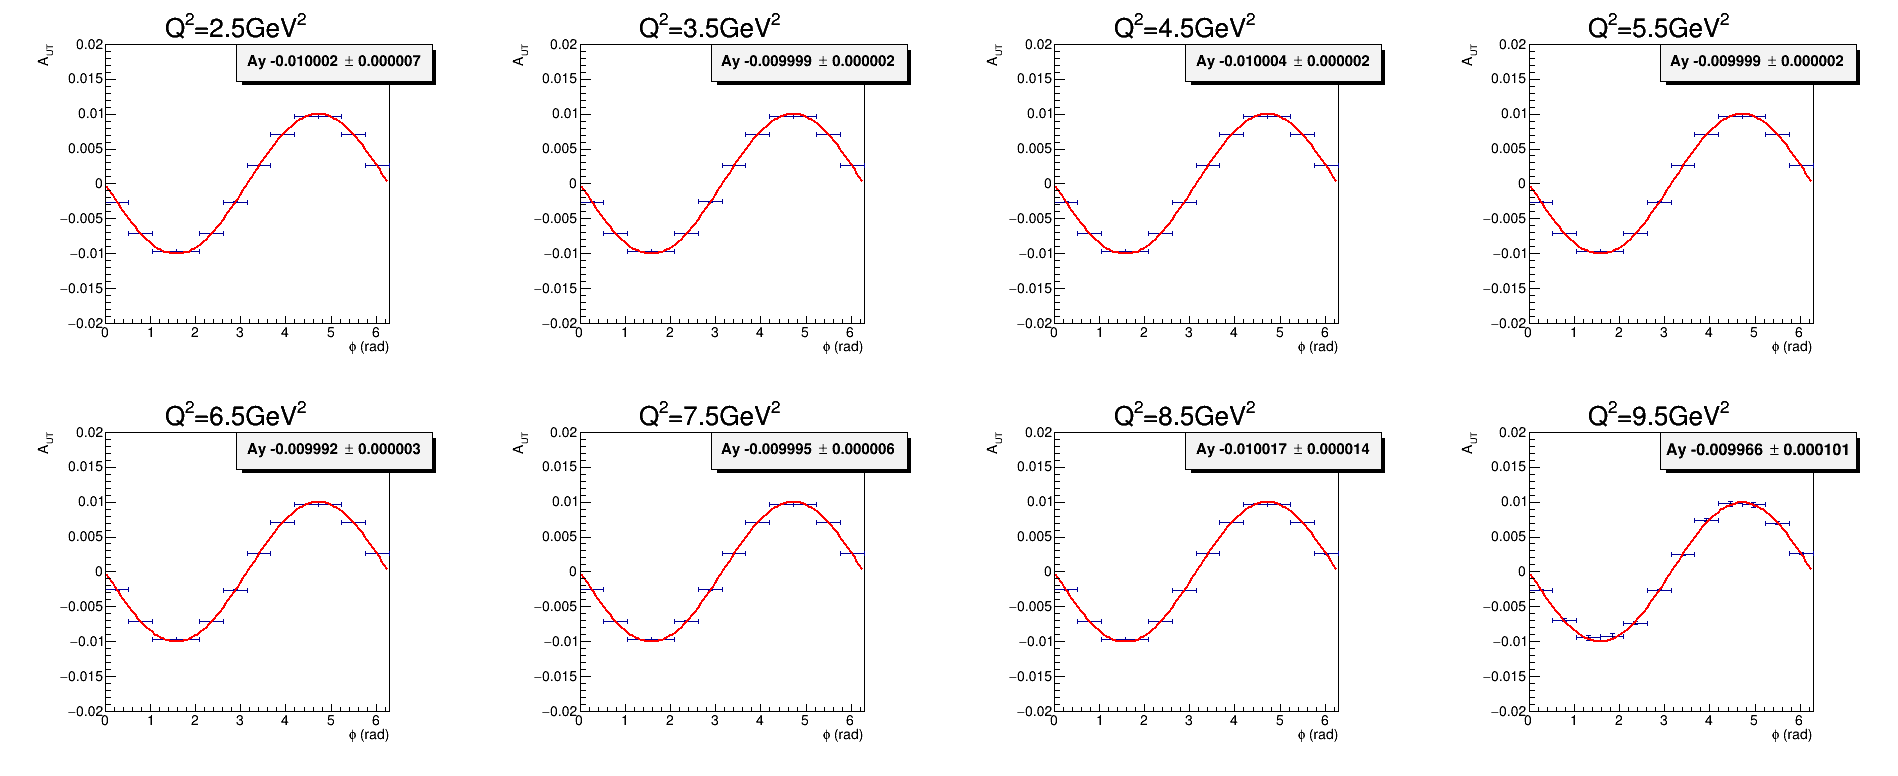
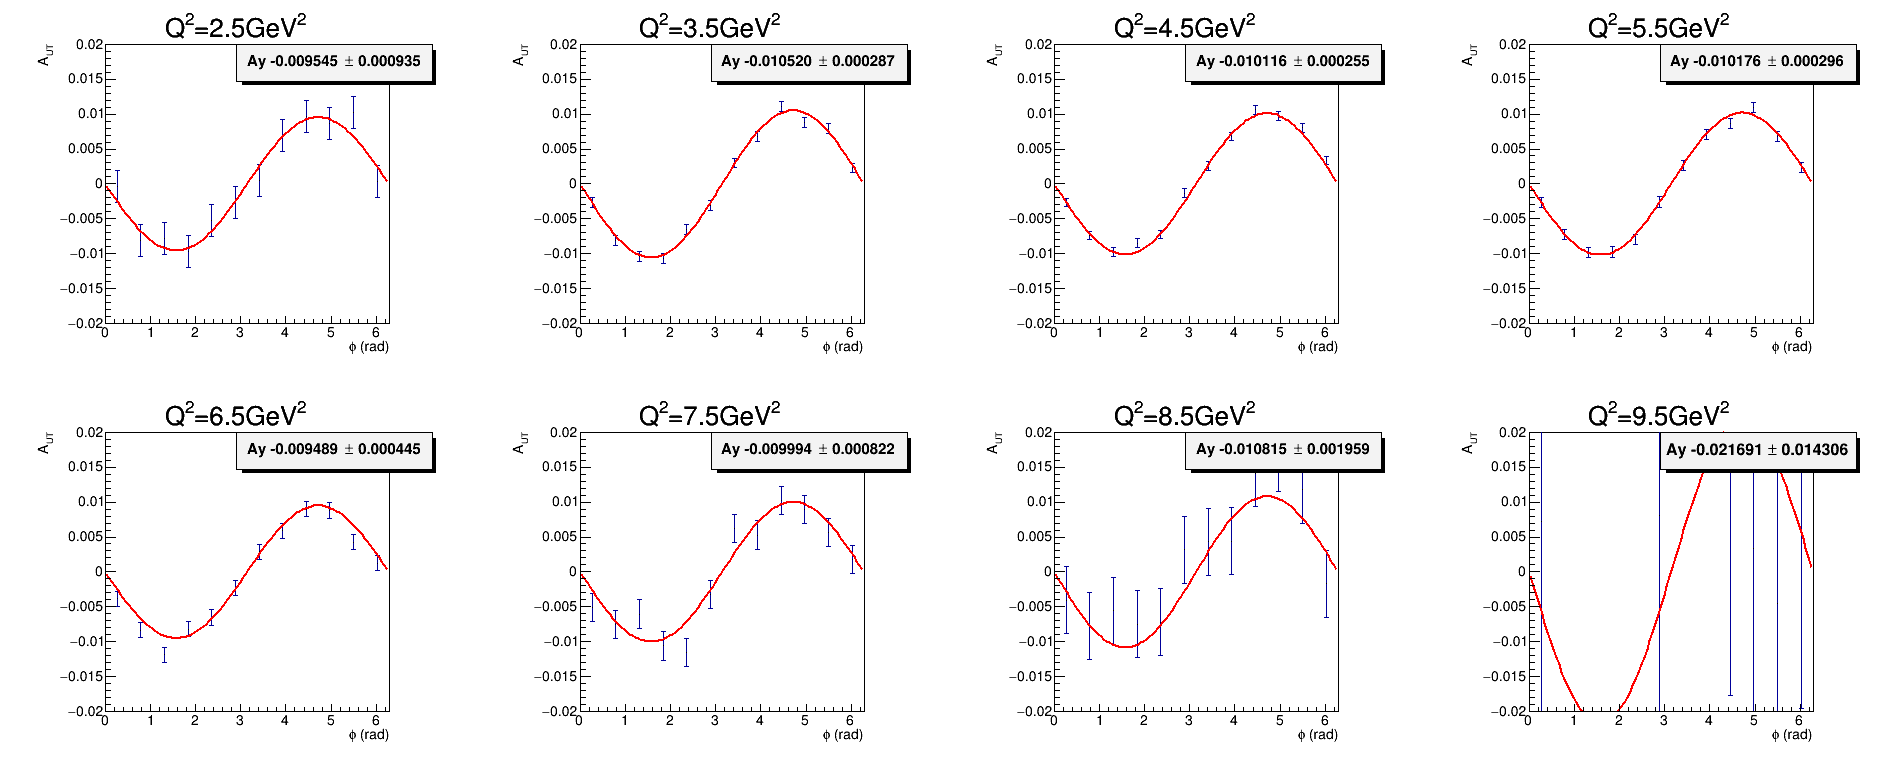
fix error bug and update plot

diff --git a/analysis/Ay_FOM/ay_fom.C b/analysis/Ay_FOM/ay_fom.C
@@ -55,7 +55,7 @@ char *Q2_center[n]={"2.5","3.5","4.5","5.5","6.5","7.5","8.5","9.5"};
 double count[n]={2.97546e8,3.15e9,4.0e9,2.9572e9,1.31311e9,3.84377e8,6.77e7,1.27e6};  //P>3.0GeV, rate=total/3600/24/48=2.9khz
 
 //Assumption
-double Ay=-0.01; // assume Ay=-0.01
+double Ay=-0.01; // same assumption as in proposal
 double Pt=0.6; //He3 polarization
 double Pn=0.86; //effective neutron polarization
 double dhe3=0.85; //He3 dilution
@@ -73,21 +73,21 @@ for(int i=0;i<n;i++){
    h_Aut[i]=new TH1F(hstname,Form("Q^{2}=%sGeV^{2};#phi (rad);A_{UT}",Q2_center[i]),12,0,3.1416*2);
    
    for(int j=0;j<12;j++){
-    double error_stat=1/sqrt(count[i]/12.)/Pt/Pn/dhe3/dn; //relative stat error, average in 12 phi bins
-    double error_sys=0.07; //relative sys error according to proposal
-    double error=error_stat; // not using sys error yet
-    double content=Ay*sin(3.1416*2/12*(j+0.5)); // with simple sin form
-//     double content_smeared=content; // no smearing
-    double content_smeared=gRandom->Gaus(content,content*error); // yes smearing
-       
-    h_Aut[i]->SetBinContent(j+1,content_smeared);
-    h_Aut[i]->SetBinError(j+1,error*content); 
+    double Aut=Ay*sin(3.1416*2/12*(j+0.5)); // with simple sin form
+    double Aut_error_stat=1/sqrt(count[i]/12.)/Pt/Pn/dhe3/dn; //abs stat error, average in 12 phi bins
+    double Aut_error_sys=0.07*Aut+1e-4+1e-3; //abs sys error according to proposal
+    double Aut_error_total=Aut_error_stat; // not using sys error yet
+    double Aut_smeared=gRandom->Gaus(Aut,Aut_error_total); // smearing to prevent overfitting
+   
+//     h_Aut[i]->SetBinContent(j+1,Aut); 
+    h_Aut[i]->SetBinContent(j+1,Aut_smeared);
+    h_Aut[i]->SetBinError(j+1,Aut_error_total); 
    }
    
    c_Aut->cd(i+1);
    h_Aut[i]->SetMaximum(0.02);
    h_Aut[i]->SetMinimum(-0.02);   
-   h_Aut[i]->Draw("E1");
+   h_Aut[i]->Draw("E1 X0");
    
    TF1 *f = new TF1("f", "[0]*sin(x)", 0, 10);
    f->SetParameter(0,-0.01); 
@@ -99,27 +99,33 @@ for(int i=0;i<n;i++){
    pt->AddText(Form("Ay %f #pm %f",Ay_fit,Ay_error));
    pt->Draw();
    
-   h_Ay->SetBinContent(i+2,Ay);
-   h_Ay->SetBinError(i+2,Ay_error);
+   if (i!=7){
+    h_Ay->SetBinContent(i+2,Ay);
+    h_Ay->SetBinError(i+2,Ay_error);
+   }
 }
 
 TCanvas *c_Ay = new TCanvas("c_Ay","c_Ay",1000,800);
    
-h_Ay->SetMaximum(-0.01+0.002);
-h_Ay->SetMinimum(-0.01-0.002);
+h_Ay->SetMaximum(-0.01+0.03);
+h_Ay->SetMinimum(-0.01-0.03);
+// h_Ay->SetMaximum(-0.01+0.004);
+// h_Ay->SetMinimum(-0.01-0.004);
 h_Ay->SetMarkerColor(kRed);
 h_Ay->SetLineColor(kBlack);
-h_Ay->Draw("E1");
+h_Ay->Draw("E1 X0");
 
-double Ay_error_proposal[9]={1.47e-5,2.58e-5,4.88e-5,8.57e-5,1.27e-4,2.04e-4,4.11e-4,1.07e-3,8.68e-3}; // at He3 11GeV, Fig 33 and Fig 37 of proposal
+// He3 11GeV, Fig 33 and Fig 37 of proposal
+// double Ay_error_proposal[9]={1.47e-5,2.58e-5,4.88e-5,8.57e-5,1.27e-4,2.04e-4,4.11e-4,1.07e-3,8.68e-3};
+double Ay_error_proposal[8]={1.47e-5,2.58e-5,4.88e-5,8.57e-5,1.27e-4,2.04e-4,4.11e-4,1.07e-3};  
 TH1F* h_Ay_proposal=new TH1F("Ay_proposal","SoLID He3 11GeV projection;Q^{2} (GeV^{2});A_{y}",9,1.1,10.1);
-for(int i=0;i<9;i++){
+for(int i=0;i<8;i++){
 h_Ay_proposal->SetBinContent(i+1,Ay);
 h_Ay_proposal->SetBinError(i+1,Ay_error_proposal[i]);
 }
 h_Ay_proposal->SetMarkerColor(kRed);
 h_Ay_proposal->SetLineColor(kRed);
-h_Ay_proposal->Draw("same E1");
+h_Ay_proposal->Draw("same E1 X0");
 
 Double_t x[4]  = {3.24,2.56,2.08,1.58};
 Double_t y[4]  = {-3.87e-2,-3.89e-2,-1.08e-2,-3.84e-2};  
@@ -128,12 +134,12 @@ Double_t ey[4] = {1.55e-2,0.96e-2,1.18e-2,2e-2};
 TGraphErrors *gr = new TGraphErrors(4,x,y,ex,ey);
 gr->SetMarkerColor(kBlue);
 gr->SetMarkerStyle(21);
-// gr->Draw("P");
+gr->Draw("P");
 
 TLegend* leg = new TLegend(0.6, 0.8, 0.9, 0.9);
 leg->AddEntry(h_Ay,Form("LD with full trigger"),"l");
 leg->AddEntry(h_Ay_proposal,Form("FD+LD with prescaled trigger in proposal"),"l");
-// leg->AddEntry(gr,Form("PRL"),"l");
+leg->AddEntry(gr,Form("published PRL result"),"l");
 leg->Draw();
 
 }
